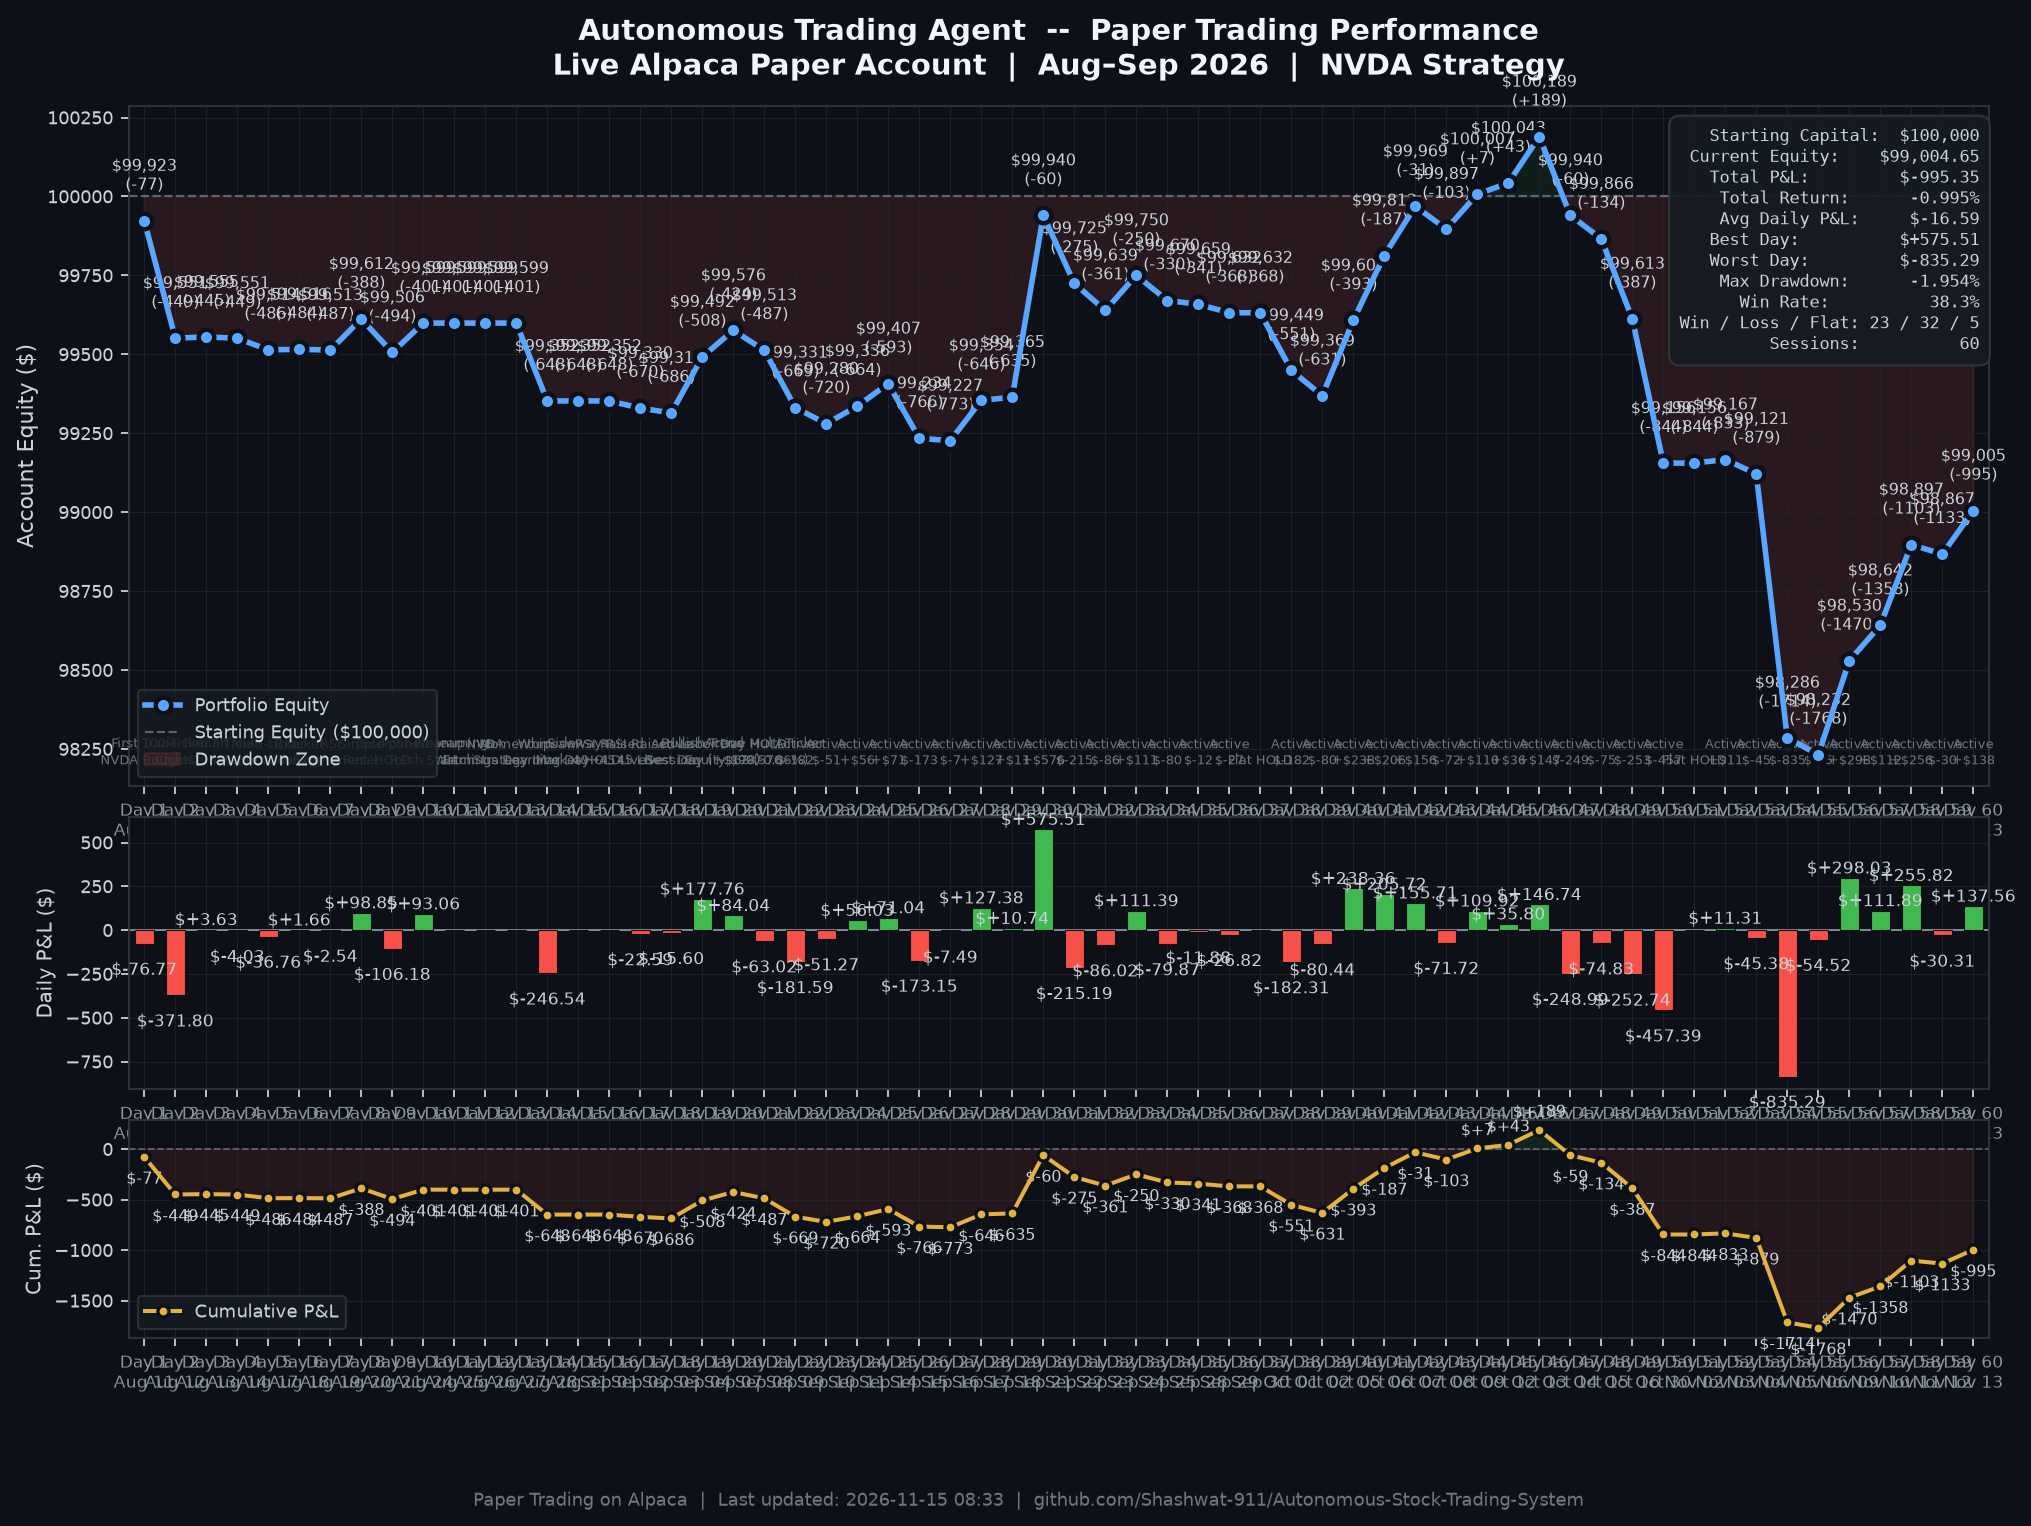
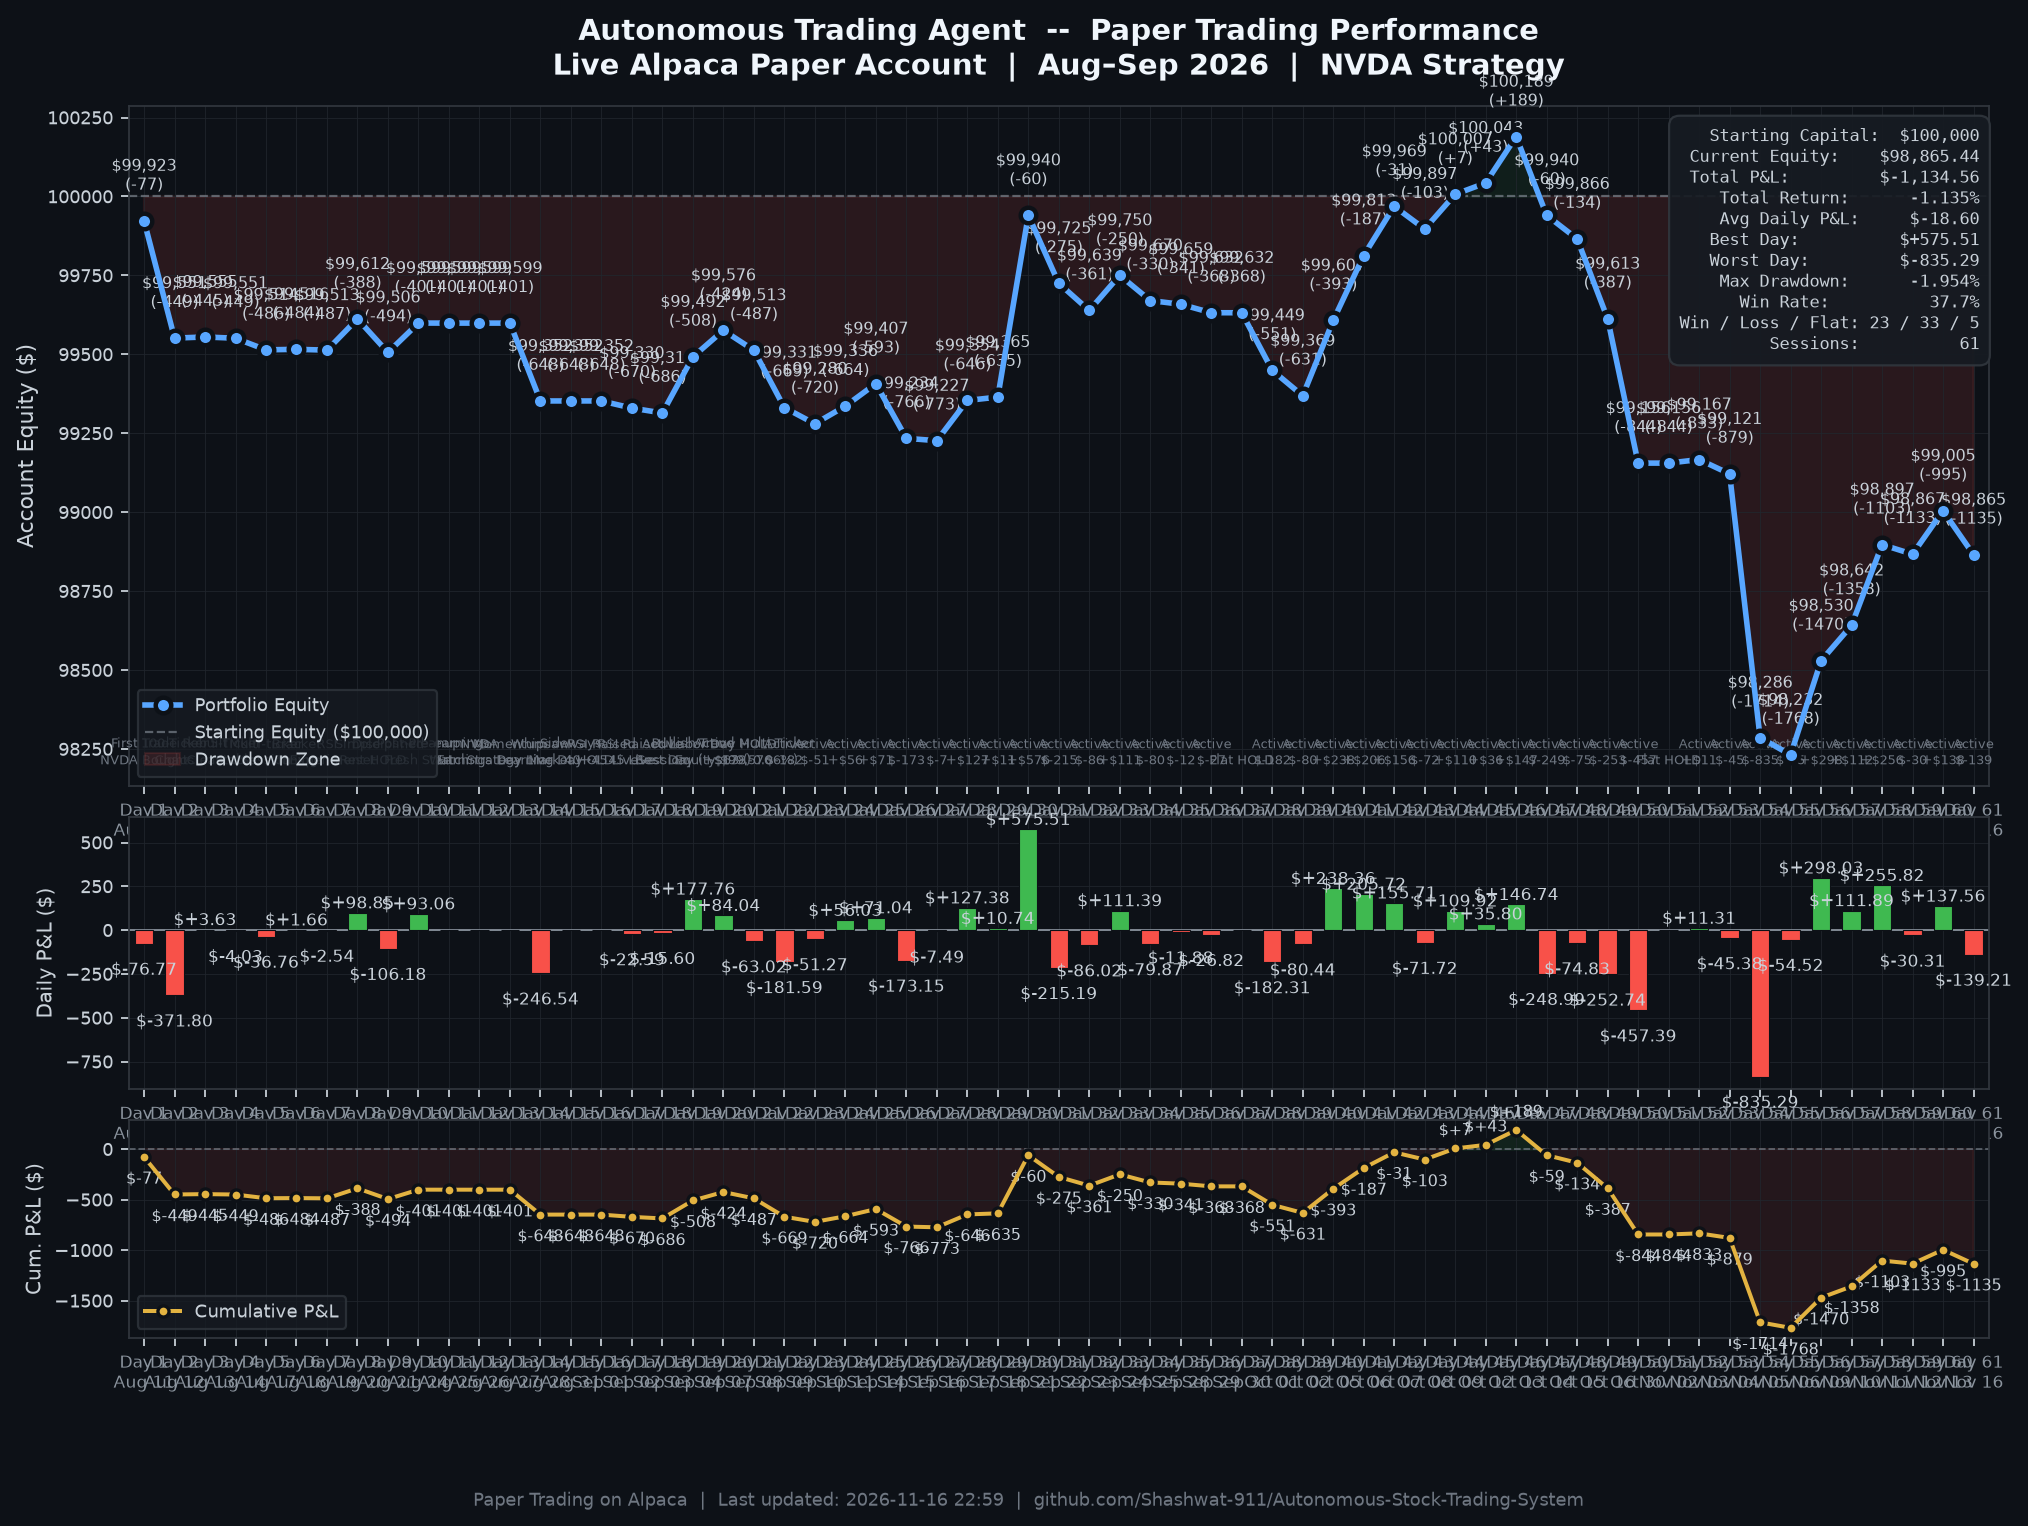
auto(session): 2026-11-16 | equity=$98,865 | return=-1.135%

diff --git a/README.md b/README.md
@@ -47,7 +47,7 @@ The automated trading bot is deployed in the cloud on Render with continuous mon
 
 > **Paper Trading on Alpaca** | Started: Aug 11, 2026 | Initial Capital: $100,000.00 | Universe: NVDA, TSLA, META, MSFT, AAPL (5-Stock High-Momentum Universe)
 
-![Daily P&L Chart](outputs/daily_pnl_chart.png?v=20261113)
+![Daily P&L Chart](outputs/daily_pnl_chart.png?v=20261116)
 
 *Chart auto-generated from live Alpaca Portfolio History API and verified session telemetry via [`scripts/generate_pnl_chart.py`](scripts/generate_pnl_chart.py).*
 
@@ -115,8 +115,9 @@ The automated trading bot is deployed in the cloud on Render with continuous mon
 | **Day 58** | Nov 11 (Wed) | $98,897.40 | **+$255.82** | -$1102.60 | -1.103% | Profitable Session (+$255.82) |
 | **Day 59** | Nov 12 (Thu) | $98,867.09 | -$30.31 | -$1132.91 | -1.133% | Active Session (-$30.31) |
 | **Day 60** | Nov 13 (Fri) | $99,004.65 | **+$137.56** | -$995.35 | -0.995% | Profitable Session (+$137.56) |
+| **Day 61** | Nov 16 (Mon) | $98,865.44 | -$139.21 | -$1134.56 | -1.135% | Loss Session (-$139.21) |
 
-> **Current Equity**: $99,004.65 | **Total P&L**: $-995.35 | **Best Day**: $+575.51 | **Win Rate**: 38.3% (23W / 32L / 5 Flat) | **Max Drawdown**: -1.768% | **Sessions**: 60
+> **Current Equity**: $98,865.44 | **Total P&L**: $-1,134.56 | **Best Day**: $+575.51 | **Win Rate**: 37.7% (23W / 33L / 5 Flat) | **Max Drawdown**: -1.768% | **Sessions**: 61
 ---
 
 ## System Architecture
